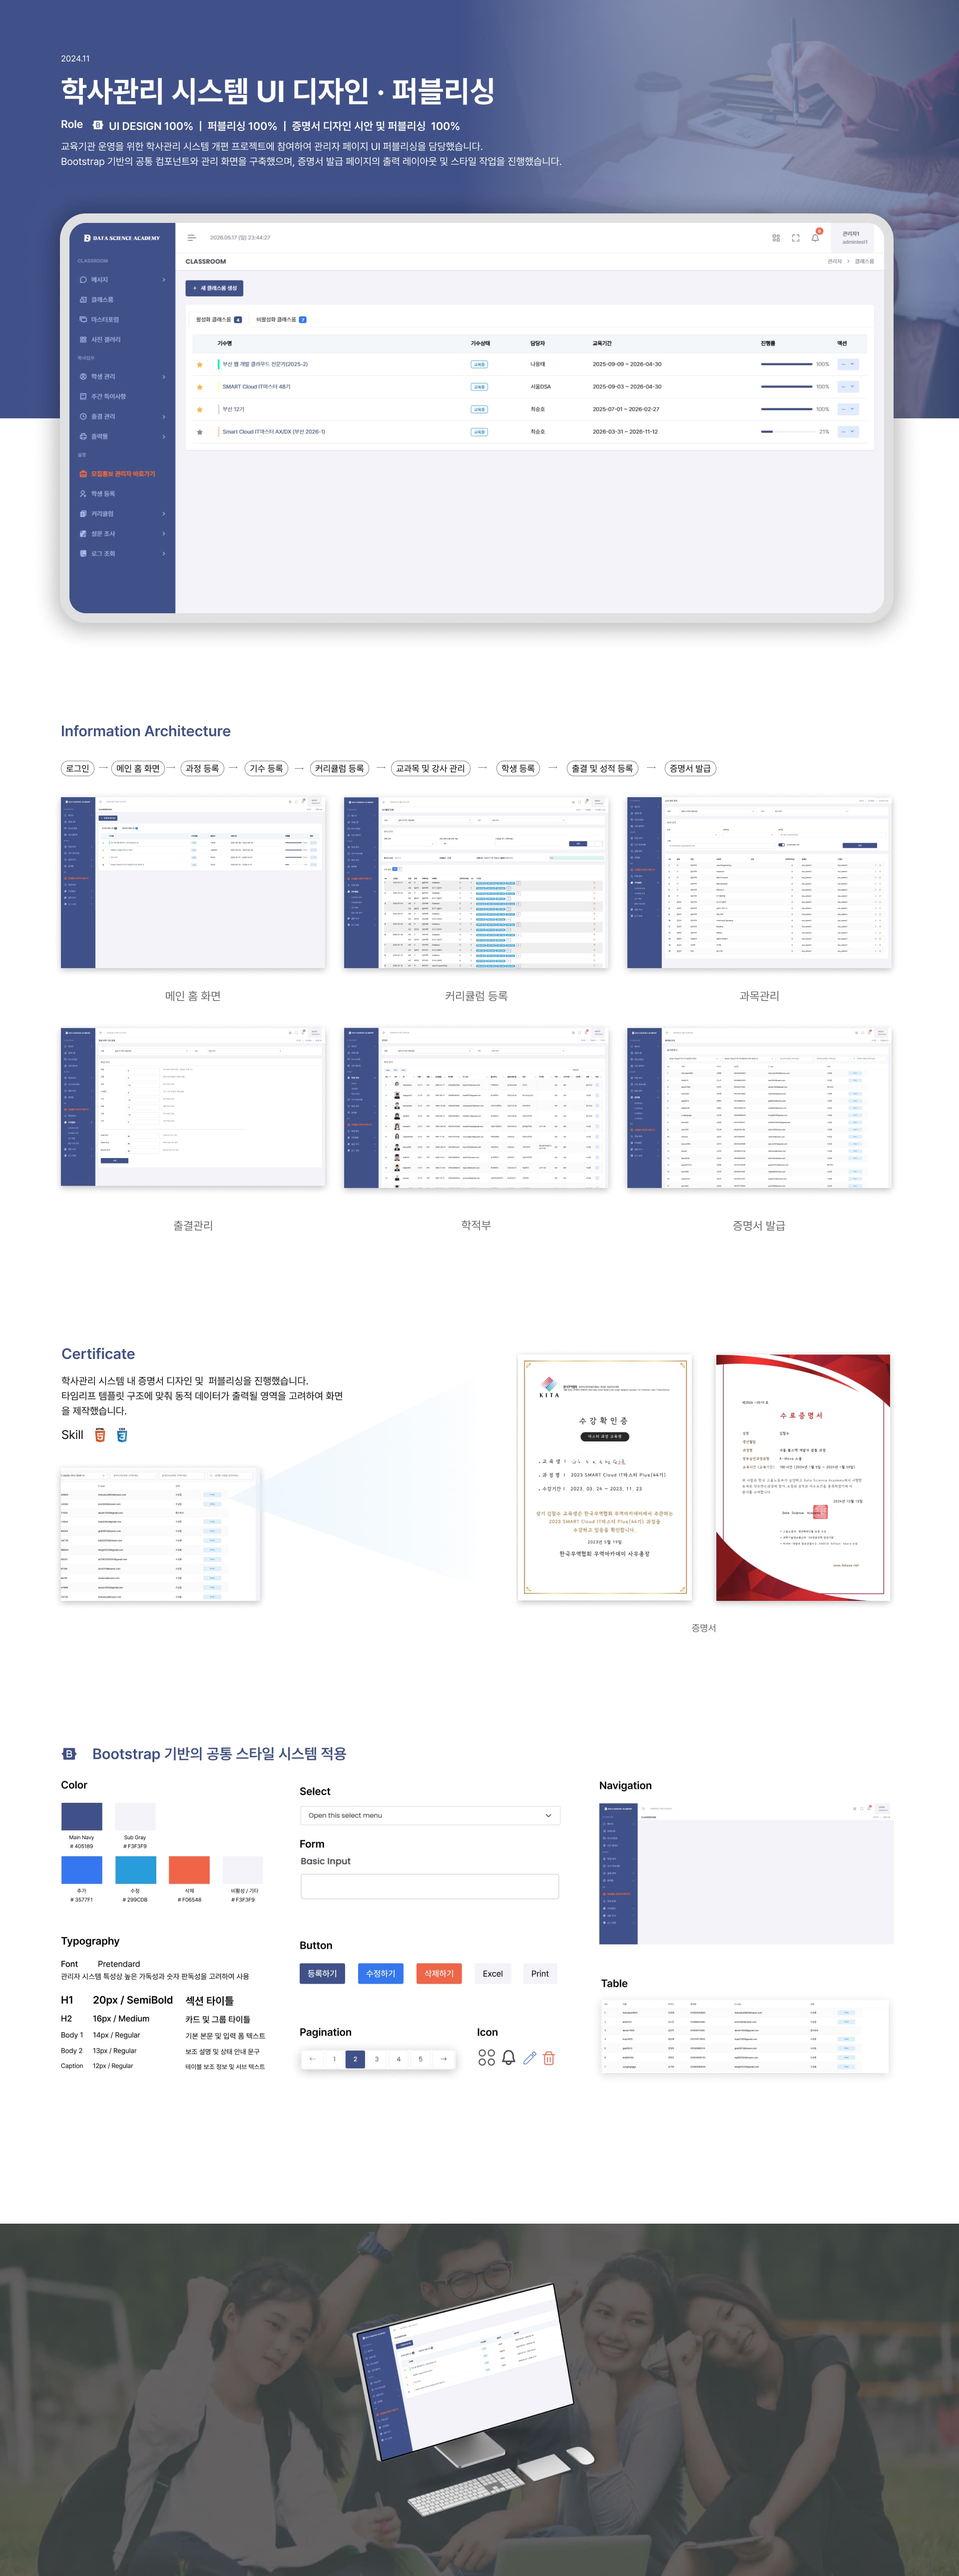
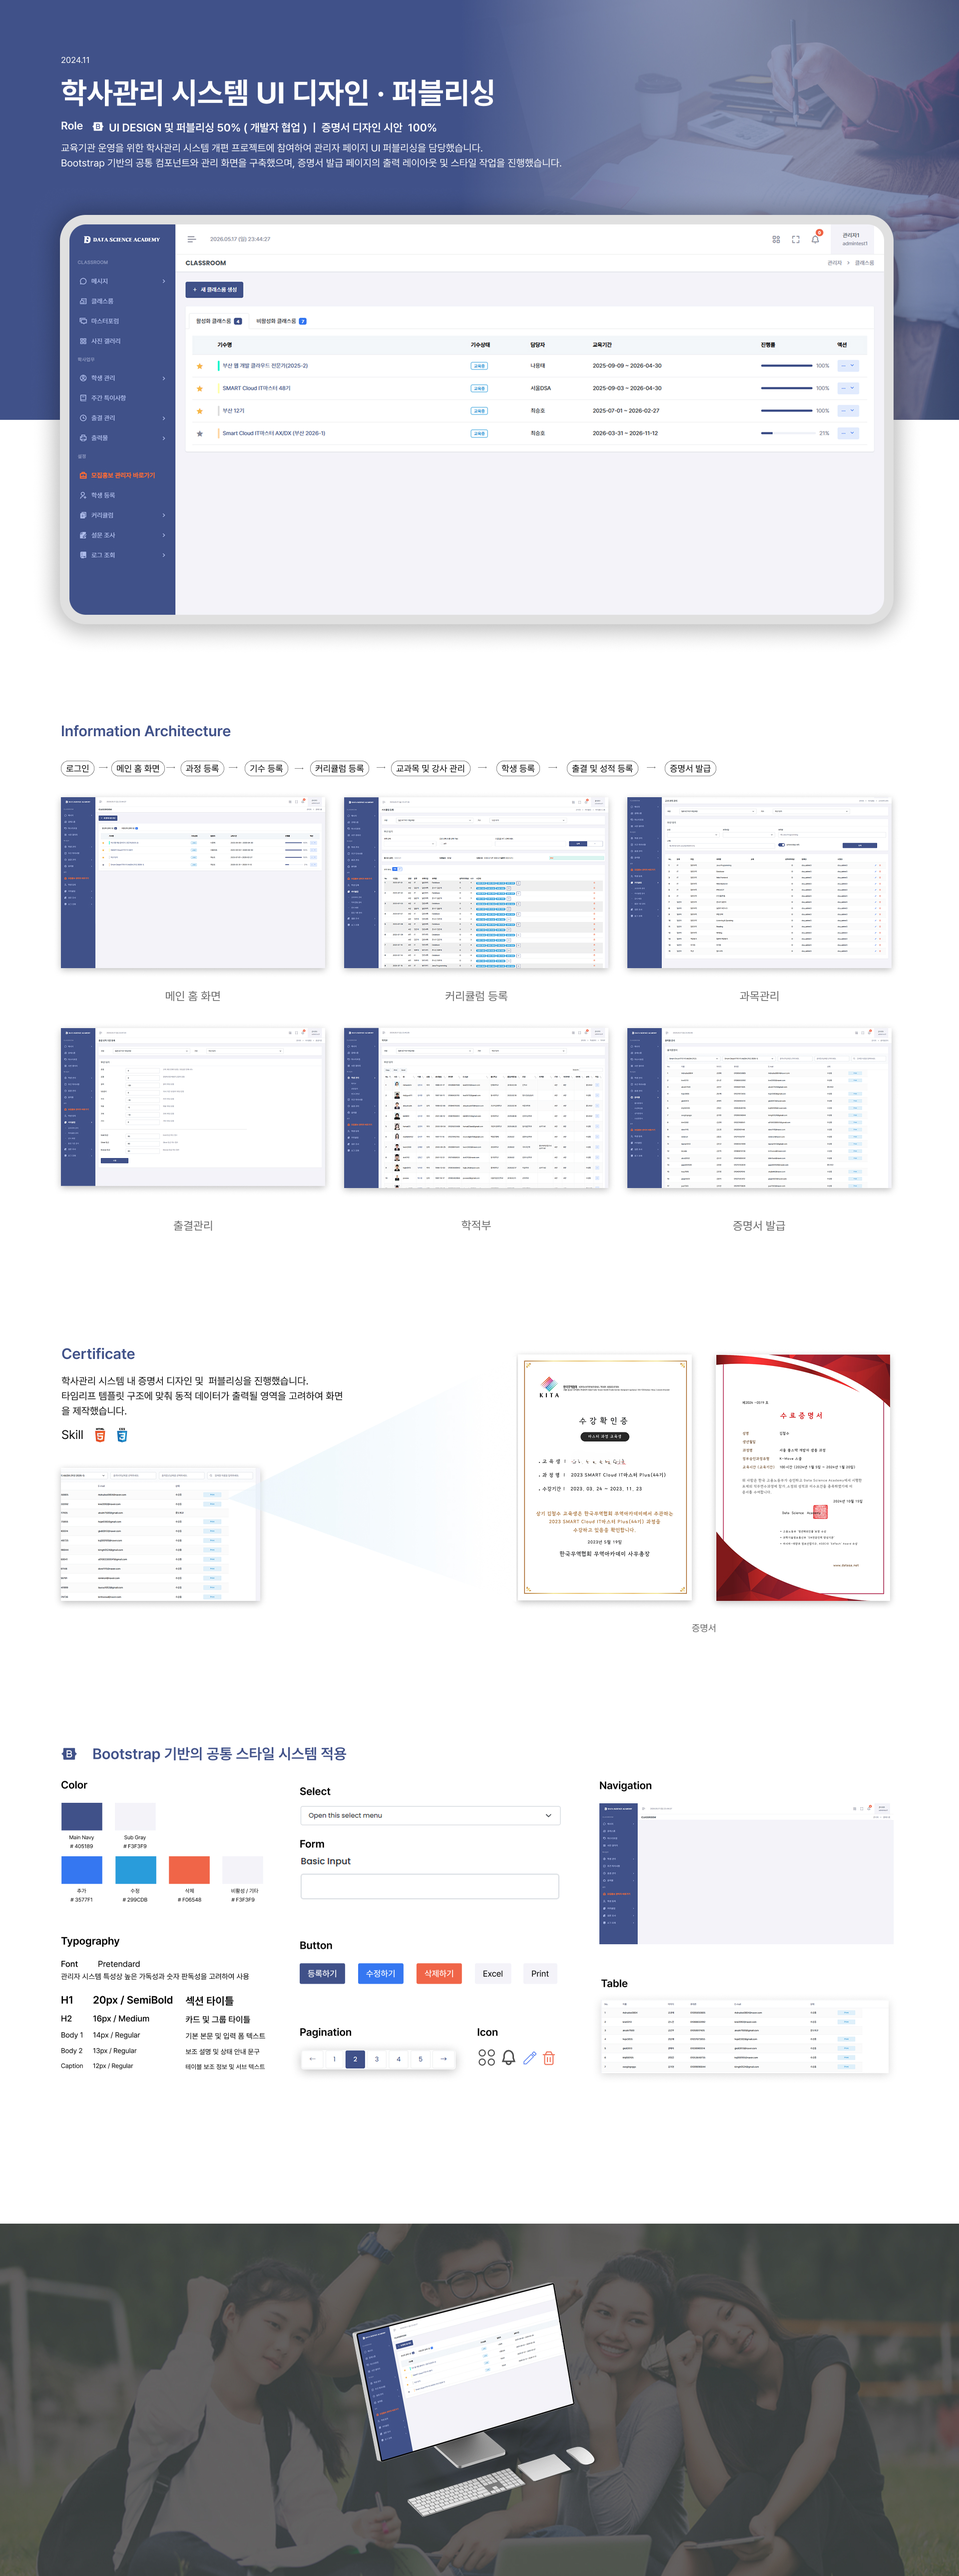
no message

Changed region(s): [[0.0625, 0.0312, 0.5, 0.2187], [0.625, 0.125, 0.6875, 0.1874], [0.5, 0.3436, 0.5312, 0.3749]]

diff --git a/index.html b/index.html
@@ -60,8 +60,8 @@
           </div>
           <div class="preview-caption"><span id="preview-title">DSA 콘텐츠 디자인</span><span id="preview-number">01 /
               07</span></div>
+          <p class="project-note project-note-desktop" hidden>개인 프로젝트는 가상의 브랜드를 기획하여 디자인부터 퍼블리싱까지 전 과정을 진행했으며, 제작 과정에 AI를 활용했습니다.</p>
           <!-- <p class="preview-hint">목록에 마우스를 올리거나 키보드로 탐색해 보세요.</p> -->
-          <p class="project-note project-note-desktop">개인 프로젝트는 가상의 브랜드를 기획하여 디자인부터 퍼블리싱까지 전 과정을 진행했으며, 제작 과정에 AI를 활용했습니다.</p>
         </aside>
         <ol class="project-list">
           <li><a class="project-link is-active" target="_blank" rel="noopener noreferrer" href="./DSA/dsa-process-cont.html" data-preview="./img/DSA.jpg"
@@ -98,7 +98,7 @@
                 src="./img/previews/rimpet-illustration.png" width="960" height="720"
                 alt="푸른 하늘과 잔디밭에서 함께 쉬는 보호자와 강아지, 고양이" loading="lazy" decoding="async">
             </a></li>
-          <li><a class="project-link" target="_blank" rel="noopener noreferrer" href="https://kimkiyoung0726.github.io/landingpage/"
+          <!-- <li><a class="project-link" target="_blank" rel="noopener noreferrer" href="https://kimkiyoung0726.github.io/landingpage/"
               data-preview="https://images.unsplash.com/photo-1725263559488-2c1cc74f9bb2?auto=format&amp;fit=crop&amp;w=960&amp;q=80"
               data-preview-alt="WANDER 오키나와 여행 랜딩페이지의 바다와 해안 풍경"><span class="project-number">05</span>
               <div class="project-info"><span class="project-category">개인 프로젝트</span>
@@ -108,27 +108,28 @@
                   src="https://images.unsplash.com/photo-1725263559488-2c1cc74f9bb2?auto=format&amp;fit=crop&amp;w=960&amp;q=80"
                   alt="WANDER 오키나와 여행 랜딩페이지의 바다와 해안 풍경" width="960" height="530" loading="lazy" decoding="async"
                   referrerpolicy="no-referrer"></span>
-            </a></li>
+            </a></li> -->
           <li><a class="project-link" target="_blank" rel="noopener noreferrer" href="./VIONA/viona-process.html" data-preview="./VIONA/img/process.jpg"
-              data-crop="viona" data-preview-alt="VIONA 건강 플랫폼의 제품과 식물 이미지"><span class="project-number">06</span>
+              data-project-note data-crop="viona" data-preview-alt="VIONA 건강 플랫폼의 제품과 식물 이미지"><span class="project-number">06</span>
               <div class="project-info"><span class="project-category">개인 프로젝트</span>
                 <h3>건강 플랫폼 web 기획</h3>
               </div><span class="project-arrow" aria-hidden="true">↗</span><img class="mobile-preview"
                 src="./VIONA/img/process.jpg" width="960" height="720" alt="건강 플랫폼 web 기획 미리보기" loading="lazy"
                 decoding="async">
+              <span class="project-note project-note-mobile">개인 프로젝트는 가상의 브랜드를 기획하여 디자인부터 퍼블리싱까지 전 과정을 진행했으며, 제작 과정에 AI를 활용했습니다.</span>
             </a></li>
           <li><a class="project-link" target="_blank" rel="noopener noreferrer" href="./Velora/velora-process.html"
-              data-preview="./Velora/img/hero/living-room.jpg" data-crop=""
+              data-project-note data-preview="./Velora/img/hero/living-room.jpg" data-crop=""
               data-preview-alt="Velora 가구와 식물로 구성된 거실 이미지"><span class="project-number">07</span>
               <div class="project-info"><span class="project-category">개인 프로젝트</span>
                 <h3>가구 플랫폼 web UIUX</h3>
               </div><span class="project-arrow" aria-hidden="true">↗</span><img class="mobile-preview"
                 src="./Velora/img/hero/living-room.jpg" width="960" height="720" alt="가구 플랫폼 web UIUX 미리보기"
                 loading="lazy" decoding="async">
+              <span class="project-note project-note-mobile">개인 프로젝트는 가상의 브랜드를 기획하여 디자인부터 퍼블리싱까지 전 과정을 진행했으며, 제작 과정에 AI를 활용했습니다.</span>
             </a></li>
         </ol>
       </div>
-      <p class="project-note">개인 프로젝트는 가상의 브랜드를 기획하여 디자인부터 퍼블리싱까지 전 과정을 진행했으며, 제작 과정에 AI를 활용했습니다.</p>
     </section>
   </main>
   <footer class="site-footer page-width">

diff --git a/css/style.css b/css/style.css
@@ -185,7 +185,8 @@ a:focus-visible {
   word-break:keep-all;
   overflow-wrap:break-word;
 }
-.project-note-desktop {
+.project-note-desktop,
+.project-note-mobile {
   display:none;
 }
 .preview {
@@ -307,6 +308,12 @@ a:focus-visible {
   letter-spacing:1.15px;
   color:var(--muted)
 }
+.project-subtitle {
+  margin:6px 0 0;
+  font-size:13px;
+  line-height:1.6;
+  color:var(--muted)
+}
 .project-info h3 {
   font-size:clamp(16px,1.5vw,23px);
   font-weight:500;
@@ -393,11 +400,8 @@ a:focus-visible {
 .reveal {
   transition:opacity .6s ease,transform .6s ease
 }
-@media(min-width:1001px) and (hover:hover) {
-  .projects > .project-note {
-    display:none;
-  }
-  .project-note-desktop {
+@media(min-width:761px) and (hover:hover) {
+  .project-note-desktop:not([hidden]) {
     display:block;
     margin-top:12px;
   }
@@ -425,6 +429,11 @@ a:focus-visible {
   }
 }
 @media(max-width:760px),(hover:none) {
+  .project-note-mobile {
+    display:block;
+    grid-column:1/-1;
+    margin-top:12px;
+  }
   .preview {
     display:none
   }

diff --git a/js/script.js b/js/script.js
@@ -34,6 +34,7 @@
     placeholder.hidden = Boolean(source);
     links.forEach(item => item.classList.toggle('is-active', item === link));
     document.querySelector('#preview-title').textContent = link.querySelector('h3').textContent;
+    document.querySelector('.project-note-desktop').hidden = !link.hasAttribute('data-project-note');
     document.querySelector('#preview-number').textContent = `${String(index + 1).padStart(2, '0')} / 07`;
   }
   links.forEach((link, index) => {
